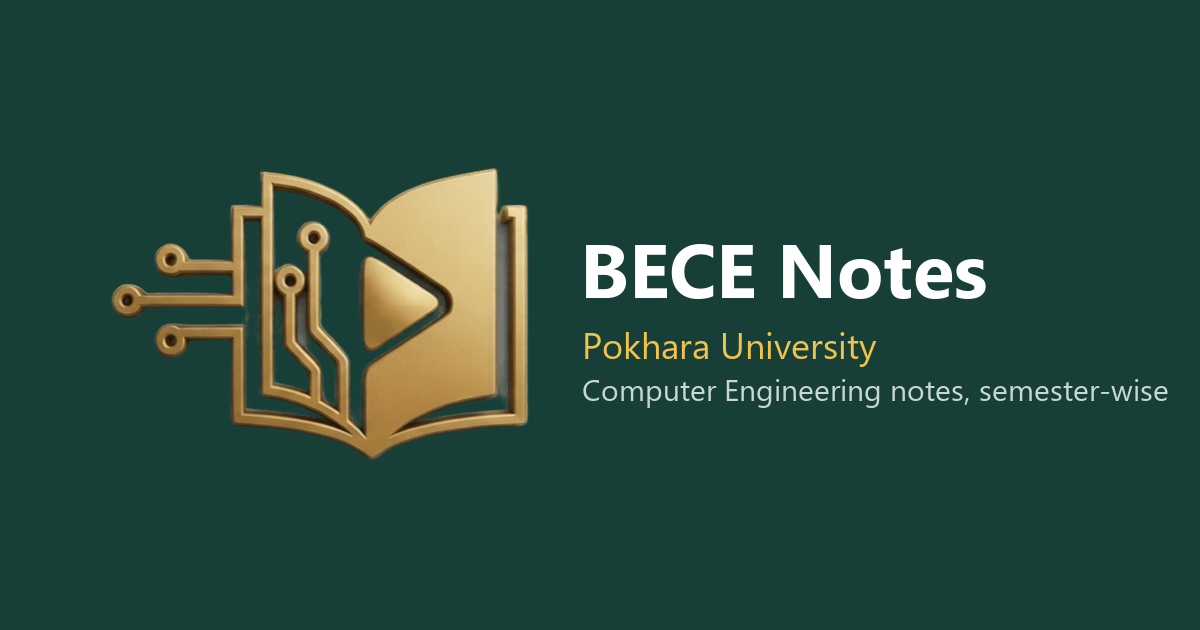
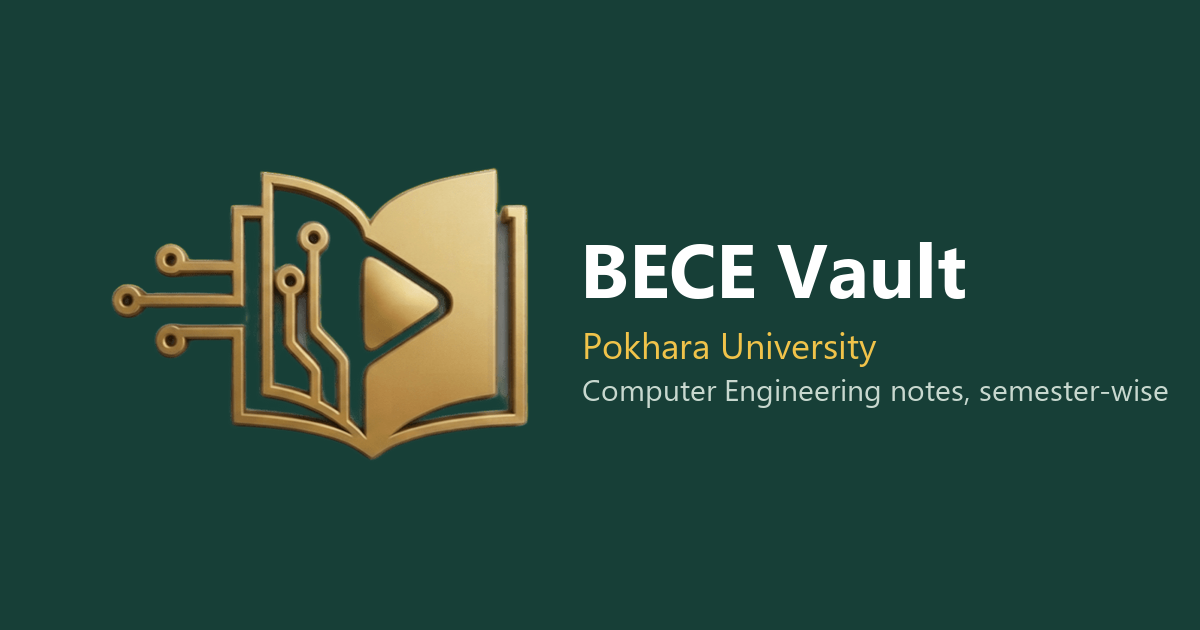
Update Site Name

Changed region(s): [[0.6475, 0.3921, 0.8325, 0.4825]]

diff --git a/Website/index.html b/Website/index.html
@@ -10,14 +10,14 @@
     <link rel="preconnect" href="https://fonts.googleapis.com" />
     <link rel="preconnect" href="https://fonts.gstatic.com" crossorigin />
     <link rel="stylesheet" href="https://fonts.googleapis.com/css2?family=DM+Mono:wght@400;500&family=DM+Sans:wght@400;500;600;700&family=Playfair+Display:ital,wght@0,600;0,700;1,600;1,700&display=swap" />
-    <title>BECE Notes — Pokhara University Computer Engineering Notes (Semester-wise)</title>
+    <title>BECE Vault — Pokhara University Computer Engineering Notes (Semester-wise)</title>
     <meta
       name="description"
       content="Free semester-wise notes for Pokhara University BE Computer Engineering (BECE): lecture notes, handwritten notes, question collections, past papers, lab reports and syllabus for every subject from Semester I onwards."
     />
     <meta
       name="keywords"
-      content="Pokhara University notes, PU notes, BECE notes, BE Computer Engineering notes, Pokhara University computer engineering notes, PU BE computer notes, NCIT notes, semester wise notes, PU question papers, PU old questions, engineering notes Nepal"
+      content="BECE Vault, Pokhara University notes, PU notes, BECE notes, BE Computer Engineering notes, Pokhara University computer engineering notes, PU BE computer notes, NCIT notes, semester wise notes, PU question papers, PU old questions, engineering notes Nepal"
     />
     <meta name="author" content="Arpan Adhikari" />
     <meta name="robots" content="index, follow" />
@@ -25,8 +25,8 @@
     <meta name="theme-color" content="#173f37" />
 
     <meta property="og:type" content="website" />
-    <meta property="og:site_name" content="BECE Notes" />
-    <meta property="og:title" content="BECE Notes — Pokhara University Computer Engineering Notes" />
+    <meta property="og:site_name" content="BECE Vault" />
+    <meta property="og:title" content="BECE Vault — Pokhara University Computer Engineering Notes" />
     <meta
       property="og:description"
       content="Free semester-wise notes, question papers, lab reports and syllabus for Pokhara University BE Computer Engineering students."
@@ -36,10 +36,10 @@
     <meta property="og:image" content="https://notes.arpanadhikari7.com.np/og-image.png" />
     <meta property="og:image:width" content="1200" />
     <meta property="og:image:height" content="630" />
-    <meta property="og:image:alt" content="BECE Notes logo — Pokhara University Computer Engineering notes" />
+    <meta property="og:image:alt" content="BECE Vault logo — Pokhara University Computer Engineering notes" />
     <meta name="twitter:card" content="summary_large_image" />
     <meta name="twitter:image" content="https://notes.arpanadhikari7.com.np/og-image.png" />
-    <meta name="twitter:title" content="BECE Notes — Pokhara University Computer Engineering Notes" />
+    <meta name="twitter:title" content="BECE Vault — Pokhara University Computer Engineering Notes" />
     <meta
       name="twitter:description"
       content="Free semester-wise notes, question papers, lab reports and syllabus for Pokhara University BE Computer Engineering students."
@@ -52,9 +52,9 @@
           {
             "@type": "WebSite",
             "@id": "https://notes.arpanadhikari7.com.np/#website",
-            "name": "BECE Notes",
+            "name": "BECE Vault",
             "image": "https://notes.arpanadhikari7.com.np/logo.png",
-            "alternateName": ["Pokhara University Computer Engineering Notes", "PU BECE Notes"],
+            "alternateName": ["BECE Notes", "Pokhara University Computer Engineering Notes", "PU BECE Notes"],
             "url": "https://notes.arpanadhikari7.com.np/",
             "inLanguage": "en",
             "description": "Free semester-wise study notes for the Bachelor of Engineering in Computer Engineering (BECE) program under Pokhara University, Nepal.",

diff --git a/Website/src/App.tsx b/Website/src/App.tsx
@@ -17,7 +17,7 @@ import { useLocation } from '@/content/router';
 import { trackPageView } from '@/content/visits';
 import { SITE_URL } from '@/content/watermark';
 
-const SITE_TITLE = 'BECE Notes — Pokhara University Computer Engineering Notes';
+const SITE_TITLE = 'BECE Vault — Pokhara University Computer Engineering Notes';
 /** The site-wide description from index.html, restored on pages without their own. */
 let defaultDescription = '';
 
@@ -78,10 +78,10 @@ function App() {
   useEffect(() => {
     const titles: Record<string, string> = { about: 'About', contributors: 'Contributors', contributing: 'Contribute', privacy: 'Privacy Policy' };
     document.title = page === 'home' ? SITE_TITLE
-      : staticPage ? `${titles[staticPage]} | BECE Notes`
-      : subject && semester ? `${subject.name} — ${semester.label} Notes | BECE Notes`
-      : semester ? `${semester.label} Notes — Pokhara University BECE | BECE Notes`
-      : 'Page not found | BECE Notes';
+      : staticPage ? `${titles[staticPage]} | BECE Vault`
+      : subject && semester ? `${subject.name} — ${semester.label} Notes | BECE Vault`
+      : semester ? `${semester.label} Notes — Pokhara University BECE | BECE Vault`
+      : 'Page not found | BECE Vault';
   }, [page, staticPage, semester, subject]);
 
   return (
@@ -91,7 +91,7 @@ function App() {
           <Link to="/" className="brand-lockup">
             <div className="brand-mark"><Logo /></div>
             <div>
-              <span className="brand-name">BECE</span>
+              <span className="brand-name">BECE Vault</span>
               <span className="brand-divider">/</span>
               <span className="brand-context">Notes library</span>
             </div>

diff --git a/Website/src/components/TipJar.tsx b/Website/src/components/TipJar.tsx
@@ -151,7 +151,7 @@ export function TipJar() {
                   <ol className="tip-steps">
                     <li><strong>Open eSewa</strong> and tap <em>Scan</em>.</li>
                     <li><strong>Scan this QR</strong> — on a phone, tap <em>Save QR</em> and scan it from your gallery.</li>
-                    <li>Enter <strong>{formatRs(total)}</strong> and confirm. Add “Chiya for BECE Notes” as remarks if you like.</li>
+                    <li>Enter <strong>{formatRs(total)}</strong> and confirm. Add “Chiya for BECE Vault” as remarks if you like.</li>
                   </ol>
                 </div>
 
@@ -176,7 +176,7 @@ export function TipJar() {
                 </div>
                 <h2 id="tip-title">Dhanyabad! 🙏</h2>
                 <p>
-                  Thank you for the {cups} {cups === 1 ? 'cup' : 'cups'} of chiya. Your support helps keep BECE Notes free and
+                  Thank you for the {cups} {cups === 1 ? 'cup' : 'cups'} of chiya. Your support helps keep BECE Vault free and
                   growing for every Computer Engineering student. Happy studying!
                 </p>
                 <button className="tip-primary" onClick={closeTipJar}><Heart size={16} /> Back to notes</button>

diff --git a/Website/plugins/notes.ts b/Website/plugins/notes.ts
@@ -199,7 +199,7 @@ function crawlableSummary(entries: ManifestEntry[]): string {
       return `<section><h2>${heading}</h2><ul>${items}</ul></section>`;
     })
     .join('');
-  return `<main><h1>BECE Notes: Pokhara University Computer Engineering notes</h1>` +
+  return `<main><h1>BECE Vault: Pokhara University Computer Engineering notes</h1>` +
     `<p>Free semester-wise study notes for the Bachelor of Engineering in Computer Engineering (BECE) program under Pokhara University, Nepal: ` +
     `lecture notes, handwritten notes, question collections, past exam questions, lab reports and syllabus. ${entries.length} files in total.</p>` +
     `${sections}</main>`;

diff --git a/Website/src/components/ContributingView.tsx b/Website/src/components/ContributingView.tsx
@@ -19,7 +19,7 @@ export function ContributingView() {
       <section className="content-page section-wrap">
         <div className="content-page-body">
           <div className="content-page-intro">
-            <p>Thank you for your interest in contributing to the BECE Notes collection. Every contribution, big or small, helps fellow students across Pokhara University. Here's how you can help.</p>
+            <p>Thank you for your interest in contributing to the BECE Vault collection. Every contribution, big or small, helps fellow students across Pokhara University. Here's how you can help.</p>
           </div>
 
           <div className="content-page-section">

diff --git a/Website/src/components/HomeView.tsx b/Website/src/components/HomeView.tsx
@@ -191,7 +191,7 @@ export function HomeView() {
           <div className="chiya-banner-text">
             <span className="section-kicker">Support the project</span>
             <h3>Did these notes help you pass?</h3>
-            <p>BECE Notes is free for every student. If it saved you time before an exam, buy me a chiya — it keeps the library growing.</p>
+            <p>BECE Vault is free for every student. If it saved you time before an exam, buy me a chiya — it keeps the library growing.</p>
           </div>
           <button className="chiya-cta" onClick={openTipJar}><Coffee size={16} /> Buy me a Chiya</button>
         </div>

diff --git a/Website/src/components/AboutView.tsx b/Website/src/components/AboutView.tsx
@@ -31,7 +31,7 @@ export function AboutView() {
           <div className="content-page-section">
             <h3><GraduationCap size={18} /> What this is</h3>
             <p className="content-page-lead">
-              BECE Notes is a free, semester-wise library of study notes for the Bachelor of Engineering in Computer
+              BECE Vault is a free, semester-wise library of study notes for the Bachelor of Engineering in Computer
               Engineering (BECE) program under Pokhara University (PU), Nepal.
             </p>
             <p>

diff --git a/Website/src/components/PrivacyView.tsx b/Website/src/components/PrivacyView.tsx
@@ -23,7 +23,7 @@ export function PrivacyView() {
         <div className="content-page-body">
           <div className="content-page-section">
             <p className="content-page-lead">
-              BECE Notes (notes.arpanadhikari7.com.np) is a free study-notes website. You don't need an account, and we
+              BECE Vault (notes.arpanadhikari7.com.np) is a free study-notes website. You don't need an account, and we
               don't ask for your name, email or any other personal details to use it.
             </p>
             <p>

diff --git a/Website/src/components/Footer.tsx b/Website/src/components/Footer.tsx
@@ -14,7 +14,7 @@ export function Footer() {
           <div className="footer-brand">
             <div className="brand-mark"><Logo /></div>
             <div>
-              <span className="brand-name">BECE Notes</span>
+              <span className="brand-name">BECE Vault</span>
               <p>A curated library for Computer Engineering students at Pokhara University.</p>
             </div>
           </div>

diff --git a/Website/src/components/Logo.tsx b/Website/src/components/Logo.tsx
@@ -1,5 +1,5 @@
 const LOGO_URL = `${import.meta.env.BASE_URL}logo.png`;
 
 export function Logo({ className = '' }: { className?: string }) {
-  return <img src={LOGO_URL} alt="BECE Notes logo" className={`logo ${className}`} draggable={false} />;
+  return <img src={LOGO_URL} alt="BECE Vault logo" className={`logo ${className}`} draggable={false} />;
 }

diff --git a/Website/README.md b/Website/README.md
@@ -1,4 +1,4 @@
-# BECE Notes website
+# BECE Vault website
 
 A React + Vite site that browses the notes stored in this repository (`Semester_*`, `Electives`, ...).
 
